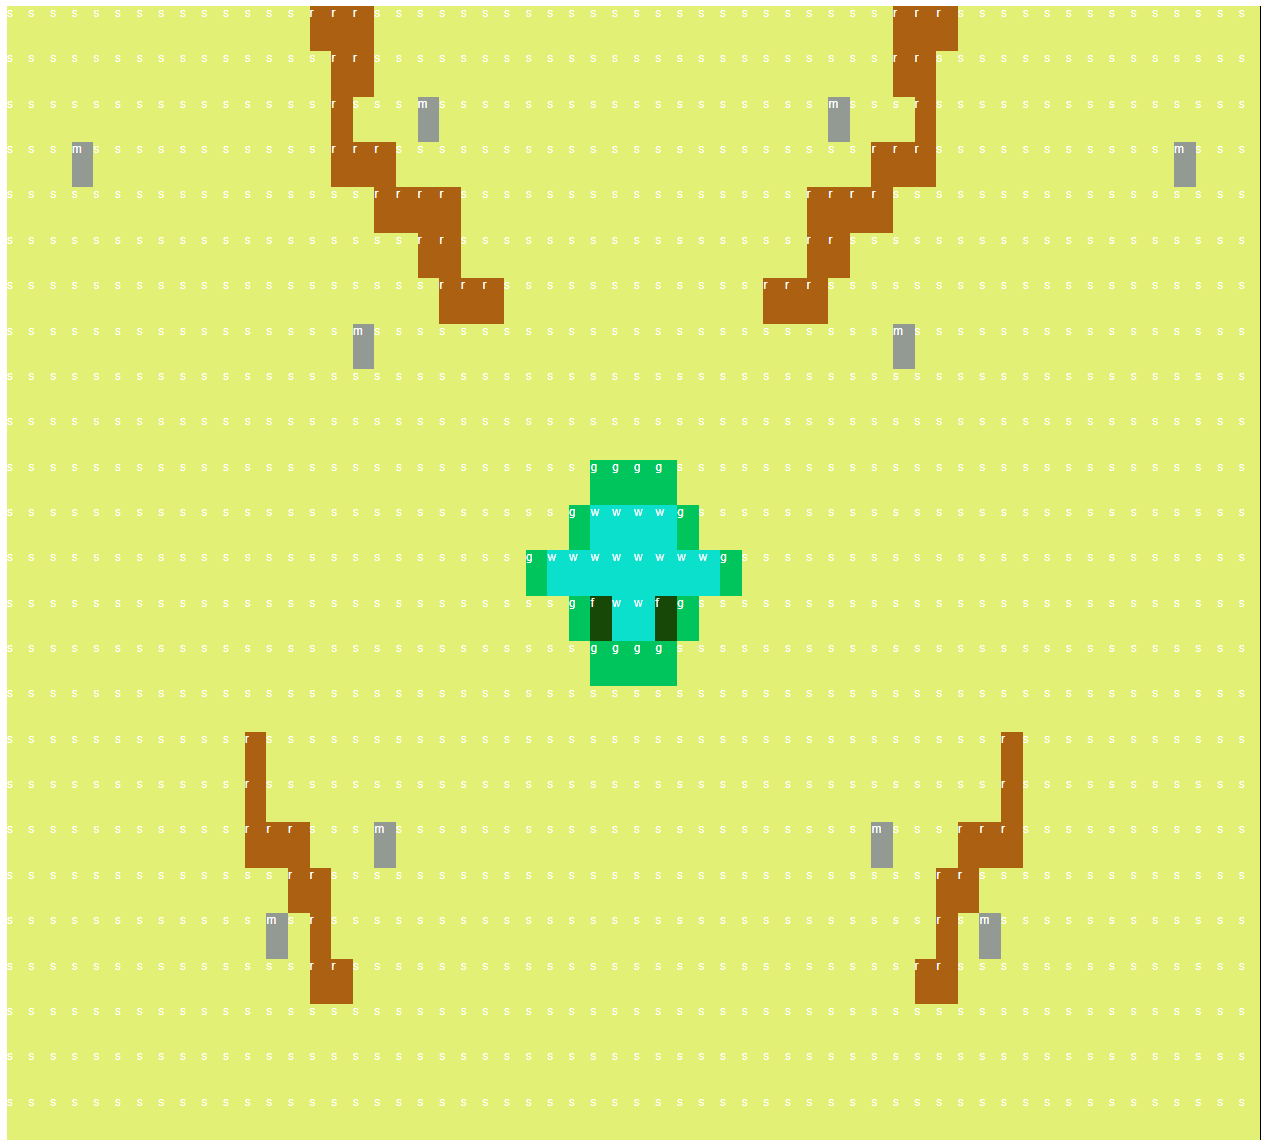
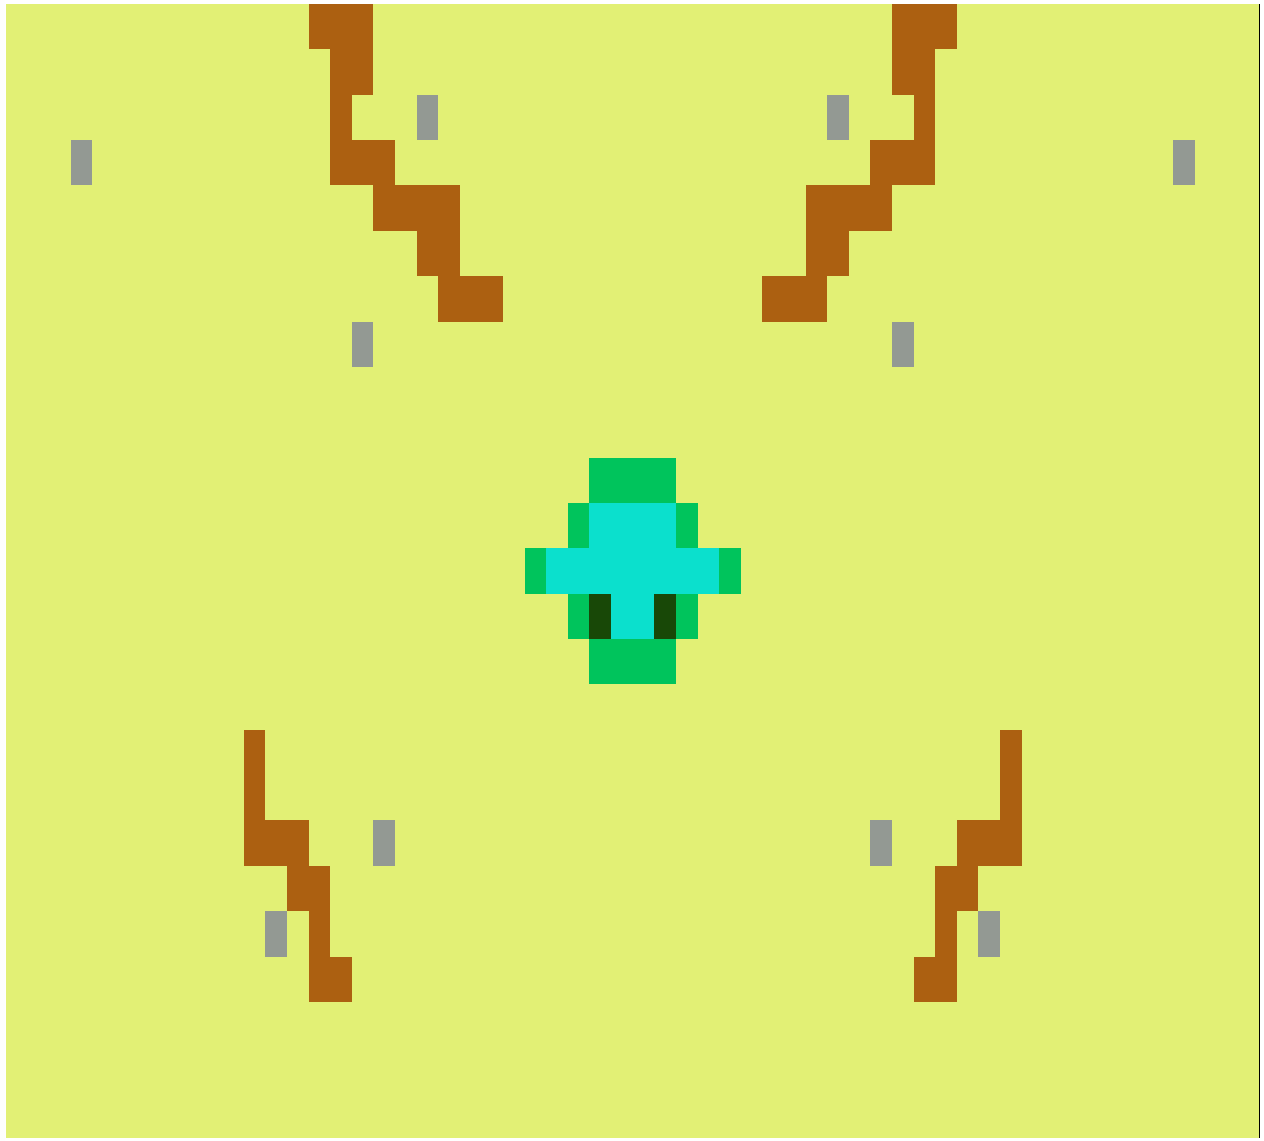
Finished Iteration 1

diff --git a/.idea/HTML + CSS/Lobby.css b/.idea/HTML + CSS/Lobby.css
@@ -1,15 +1,27 @@
-body{
+html, body{
     font-family: Arial, serif;
+/* Sets the font and font family for the body of the web page, although in
+   this case, the entire page */
     text-align: center;
+/* Centers the text to make it look slightly nicer */
     background-color: black;
+/* Sets the background colour to be black, less strenuous on the eyes */
     color: white;
+/* Sets the text colour to white for easier contrast with the background */
+    height: 98%;
+/* Sets the height to 98% as anything larger brings up a scroll wheel */
 }
 .header{
     padding: 8px;
+/* Just adds padding to the header to make the title look more important */
 }
 .leftTable{
     width: 30%;
+/* Sets the width of the left table to 30% of the page, allows the map images
+   to take up more space */
     background-color: midnightblue;
+/* Sets the table background colour to midnightblue, brings more attention to
+   the settings */
 }
 .lfirstColumn{
     padding-bottom: 14%;
@@ -29,6 +41,7 @@ body{
 }
 #playerMetal{
     width: 4em;
+/* Sets the width to four times the font size (so four characters will show) */
 }
 #playerPower{
     width: 4em;
@@ -40,11 +53,19 @@ body{
     width: 4em;
 }
 .rightTable{
-    width:65%;
+    width:60%;
+/* Gives the right table 60% of the width of the page */
 }
 .maps1{
-    height: 40vh;
+    height: 50vh;
+/* Allows the image cell to take up 50% of the page */
 }
 .maps2{
     height: 30vh;
+/* Forces the selection cell to take up just 30% of the page */
+}
+#maps{
+    height: 100%;
+    width: 80%;
+/* Gives the map images a decent size and ratio */
 }

diff --git a/.idea/HTML + CSS/Game.css b/.idea/HTML + CSS/Game.css
@@ -1,28 +1,45 @@
 body{
     background-color: white;
+/* Sets the background colour to white */
     font-family: Arial, serif;
+/* Sets the font to Arial in the serif family */
 }
 .container {
+/* This is where all the automatically created divs are put */
     display: grid;
+/* Makes the element a grid container */
     background-color: black;
+/* Sets the background colour to black to see if any divs aren't loaded properly */
     grid-template-columns: repeat(58, 1.724137%);
+/* Lays out the divs in rows of 58 equally sized columns */
     grid-template-rows: repeat(25, 4%);
+/* Lays out the divs in 25 equally sized rows */
     width: 100%;
+/* Makes the grid take up 100% of the possible space */
     height:90vh;
+/* Makes the height of the grid just 90% of the web page height */
     color: white;
+/* Makes the text colour white to contrast with the black background */
     font-size: 8px;
+/* Mkaes the font size relatively small */
 }
 .stats{
     text-align: center;
+/* Aligns the text to the center, looks nicer */
     color: black;
+/* Makes the text colour black to contrast with the body's white background */
     width: 100%;
+/*Makes the width 100% of the possible space */
 }
 #playerMetal{
     width: 5%;
+/* Makes the two columns with this id take up 5% of the width */
 }
 #playerPower{
     width: 5%;
+/* Makes the two columns with this id take up 5% of the width */
 }
 #waste{
     width: 80%;
+/*Takes up the remaining 80% of space with a blank column */
 }

diff --git a/.idea/JavaScript/Lobby.js b/.idea/JavaScript/Lobby.js
@@ -1,4 +1,3 @@
-// Comments are below what they're talking about
 // sessionStorage was used rather than localStorage as it is removed after the user leaves the site
 function pageLoad(){
 // This function executes when as soon as the Lobby web page is loaded
@@ -65,12 +64,13 @@ function mapSelect(){
     console.log(sessionStorage.map)
 // Displays the map choice (used for testing)
     if(sessionStorage.map == "1"){
-        document.getElementById('maps').src="https://github.com/hobbs24/NEA/blob/master/.idea/Maps/ForgottenIslands.PNG"
+        document.getElementById('maps').src="http://localhost:63342/NEA/.idea/Maps/ForgottenIslands.png"
     }
     else if(sessionStorage.map == "2"){
-        document.getElementById('maps').src="https://github.com/hobbs24/NEA/blob/master/.idea/Maps/DesertStorm.PNG"
+        document.getElementById('maps').src="http://localhost:63342/NEA/.idea/Maps/DesertStorm.png"
     }
     else if(sessionStorage.map == "3"){
-        document.getElementById('maps').src="https://github.com/hobbs24/NEA/blob/master/.idea/Maps/GreenPlains.PNG"
+        document.getElementById('maps').src="http://localhost:63342/NEA/.idea/Maps/GreenPlains.png"
     }
+// Changes the source of the img tab and displays the appropriate image, decided by the player
 }

diff --git a/.idea/JavaScript/Game.js b/.idea/JavaScript/Game.js
@@ -491,9 +491,6 @@ function display(){
 // The div is assigned its unique class
             colourSelector(div, y, x)
 // Executes colourSelector to determine the colour of each div
-            div.innerHTML = map[y][x]
-// The div displays a value from the Forgotten Islands array in
-// correspondence with its position
             container.appendChild(div)
 // Adds the div to the parent div to be displayed
         }

diff --git a/.idea/HTML + CSS/Lobby.html b/.idea/HTML + CSS/Lobby.html
@@ -88,6 +88,7 @@
             <picture>
                 <img id="maps" src="">
             </picture>
+<!-- This allows the JS file to change the source to change what image gets displayed -->
         </td>
     </tr>
     <tr>
